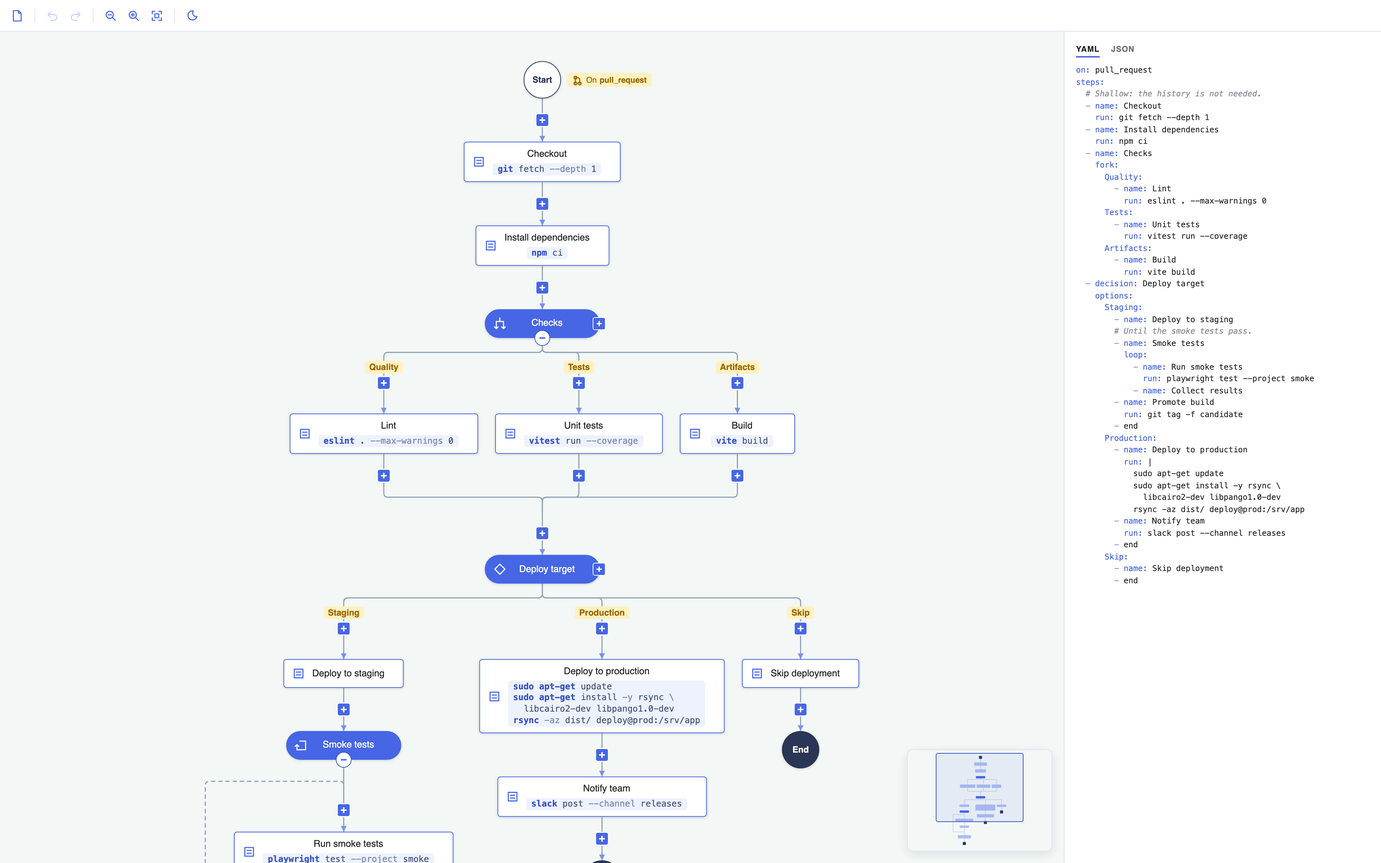
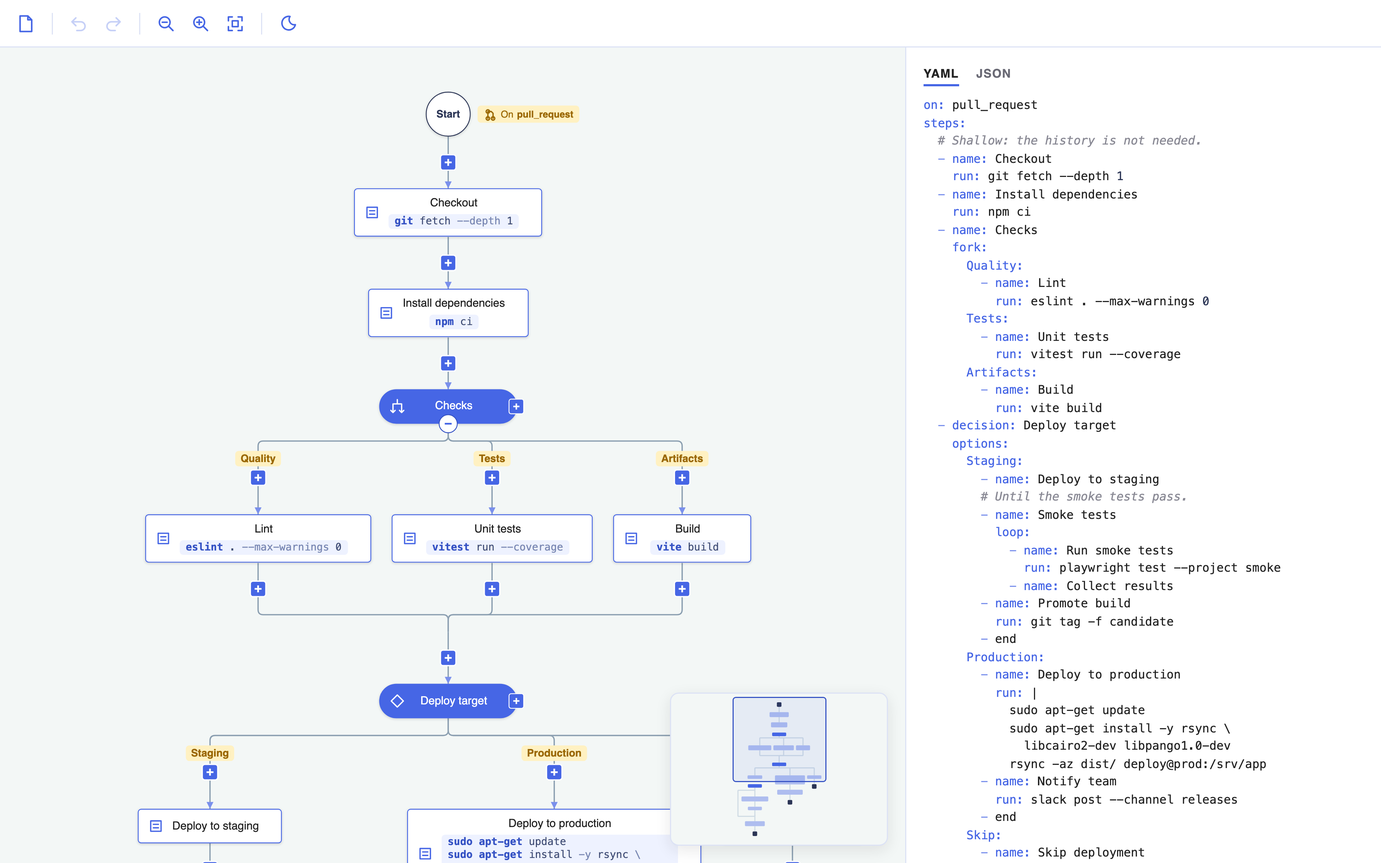
refactor(ci-pipeline-editor): the box of a loop carries the room for its return link (#72)

diff --git a/ci-pipeline-editor/react/src/layout/index.ts b/ci-pipeline-editor/react/src/layout/index.ts
@@ -1,7 +1,7 @@
 import type { dia, g } from '@joint/plus';
 
 import { layoutForkGroup } from './fork';
-import { LOOP_GAP, LOOP_START_ROOM, layoutLoopGroup } from './loop';
+import { LOOP_START_ROOM, layoutLoopGroup } from './loop';
 import { AddButtonModel, DecisionModel, GroupModel, GroupStartModel, LinkModel, isGate } from '../shapes';
 import type { GroupKind } from '../shapes';
 import { createTreeLayout } from './tree';
@@ -122,24 +122,6 @@ function nameOptions(graph: dia.Graph): void {
     }
 }
 
-/**
- * Gives every expanded loop with a sibling on its left extra room before it
- * (`prevSiblingGap`), for its return link, which runs outside of the box of
- * the group. Not a loop without one: the tree layout would shift a lone
- * child by half the gap, and a loop below a single parent is to line up
- * with it. Not a collapsed loop either: it shows no return link.
- */
-function makeRoomForReturnLinks(graph: dia.Graph): void {
-    for (const group of graph.getElements().filter(GroupModel.isGroup)) {
-        if (group.getKind() !== 'loop') continue;
-        // A collapsed loop shows no return link: no room for it.
-        const [parent] = graph.getNeighbors(group, { inbound: true });
-        const siblings = parent && !group.isCollapsed() ? getOptions(graph, parent) : [];
-        siblings.sort((a, b) => ((a.get('siblingRank') ?? 0) - (b.get('siblingRank') ?? 0)) || (a.getBBox().x - b.getBBox().x));
-        group.set({ prevSiblingGap: siblings.indexOf(group) > 0 ? LOOP_GAP : 0 });
-    }
-}
-
 /** Lays out the content of an expanded group; each kind of group has a layout of its own. */
 function layoutGroup(graph: dia.Graph, group: GroupModel): void {
     switch (group.getKind()) {
@@ -189,30 +171,6 @@ export function getVisibleBBox(graph: dia.Graph): g.Rect | null {
 }
 
 /**
- * Anchors the outer links of every visible group on the axis of its gates,
- * on the link models: a link into the group meets it at the top of its
- * `start` node, a link out of it leaves it at the bottom of its `end` node -
- * so the tree appears to connect to the gates, although the links connect
- * to the group, which may be wider on one side of the axis. Set after the
- * layout, which decides where the gates are; a collapsed group is the size
- * of its `start`, so the offset is nought. The anchors read the model: a
- * group is never rendered, on the paper or on the map.
- */
-function anchorGroupLinks(graph: dia.Graph, groups: GroupModel[]): void {
-    for (const group of groups) {
-        const center = group.getBBox().center();
-        const startDx = group.getStart().getBBox().center().x - center.x;
-        const endDx = (group.isCollapsed() ? group.getStart() : group.getEnd()).getBBox().center().x - center.x;
-        for (const link of graph.getConnectedLinks(group, { inbound: true })) {
-            link.prop('target/anchor', { name: 'top', args: { dx: startDx, useModelGeometry: true }});
-        }
-        for (const link of graph.getConnectedLinks(group, { outbound: true })) {
-            link.prop('source/anchor', { name: 'bottom', args: { dx: endDx, useModelGeometry: true }});
-        }
-    }
-}
-
-/**
  * Lays out the whole diagram bottom-up: the deepest groups first, because a
  * group is a single node of the tree that contains it and its size has to be
  * known before that tree is laid out. Makes room for the names of the
@@ -222,7 +180,6 @@ function anchorGroupLinks(graph: dia.Graph, groups: GroupModel[]): void {
 export function runLayout(graph: dia.Graph, root: dia.Element): g.Rect | null {
 
     makeRoomForOptions(graph);
-    makeRoomForReturnLinks(graph);
 
     const groups = graph.getElements()
         .filter(GroupModel.isGroup)
@@ -241,7 +198,6 @@ export function runLayout(graph: dia.Graph, root: dia.Element): g.Rect | null {
     }
 
     createTreeLayout(graph).layoutTree(root);
-    anchorGroupLinks(graph, groups);
     nameOptions(graph);
     for (const group of groups) {
         if (group.isCollapsed()) parkHiddenContent(group);

diff --git a/ci-pipeline-editor/ts/src/layout/index.ts b/ci-pipeline-editor/ts/src/layout/index.ts
@@ -1,7 +1,7 @@
 import type { dia, g } from '@joint/plus';
 
 import { layoutForkGroup } from './fork';
-import { LOOP_GAP, LOOP_START_ROOM, layoutLoopGroup } from './loop';
+import { LOOP_START_ROOM, layoutLoopGroup } from './loop';
 import { AddButtonModel, DecisionModel, GroupModel, GroupStartModel, LinkModel, isGate } from '../shapes';
 import type { GroupKind } from '../shapes';
 import { createTreeLayout } from './tree';
@@ -122,24 +122,6 @@ function nameOptions(graph: dia.Graph): void {
     }
 }
 
-/**
- * Gives every expanded loop with a sibling on its left extra room before it
- * (`prevSiblingGap`), for its return link, which runs outside of the box of
- * the group. Not a loop without one: the tree layout would shift a lone
- * child by half the gap, and a loop below a single parent is to line up
- * with it. Not a collapsed loop either: it shows no return link.
- */
-function makeRoomForReturnLinks(graph: dia.Graph): void {
-    for (const group of graph.getElements().filter(GroupModel.isGroup)) {
-        if (group.getKind() !== 'loop') continue;
-        // A collapsed loop shows no return link: no room for it.
-        const [parent] = graph.getNeighbors(group, { inbound: true });
-        const siblings = parent && !group.isCollapsed() ? getOptions(graph, parent) : [];
-        siblings.sort((a, b) => ((a.get('siblingRank') ?? 0) - (b.get('siblingRank') ?? 0)) || (a.getBBox().x - b.getBBox().x));
-        group.set({ prevSiblingGap: siblings.indexOf(group) > 0 ? LOOP_GAP : 0 });
-    }
-}
-
 /** Lays out the content of an expanded group; each kind of group has a layout of its own. */
 function layoutGroup(graph: dia.Graph, group: GroupModel): void {
     switch (group.getKind()) {
@@ -189,30 +171,6 @@ export function getVisibleBBox(graph: dia.Graph): g.Rect | null {
 }
 
 /**
- * Anchors the outer links of every visible group on the axis of its gates,
- * on the link models: a link into the group meets it at the top of its
- * `start` node, a link out of it leaves it at the bottom of its `end` node -
- * so the tree appears to connect to the gates, although the links connect
- * to the group, which may be wider on one side of the axis. Set after the
- * layout, which decides where the gates are; a collapsed group is the size
- * of its `start`, so the offset is nought. The anchors read the model: a
- * group is never rendered, on the paper or on the map.
- */
-function anchorGroupLinks(graph: dia.Graph, groups: GroupModel[]): void {
-    for (const group of groups) {
-        const center = group.getBBox().center();
-        const startDx = group.getStart().getBBox().center().x - center.x;
-        const endDx = (group.isCollapsed() ? group.getStart() : group.getEnd()).getBBox().center().x - center.x;
-        for (const link of graph.getConnectedLinks(group, { inbound: true })) {
-            link.prop('target/anchor', { name: 'top', args: { dx: startDx, useModelGeometry: true }});
-        }
-        for (const link of graph.getConnectedLinks(group, { outbound: true })) {
-            link.prop('source/anchor', { name: 'bottom', args: { dx: endDx, useModelGeometry: true }});
-        }
-    }
-}
-
-/**
  * Lays out the whole diagram bottom-up: the deepest groups first, because a
  * group is a single node of the tree that contains it and its size has to be
  * known before that tree is laid out. Makes room for the names of the
@@ -222,7 +180,6 @@ function anchorGroupLinks(graph: dia.Graph, groups: GroupModel[]): void {
 export function runLayout(graph: dia.Graph, root: dia.Element): g.Rect | null {
 
     makeRoomForOptions(graph);
-    makeRoomForReturnLinks(graph);
 
     const groups = graph.getElements()
         .filter(GroupModel.isGroup)
@@ -241,7 +198,6 @@ export function runLayout(graph: dia.Graph, root: dia.Element): g.Rect | null {
     }
 
     createTreeLayout(graph).layoutTree(root);
-    anchorGroupLinks(graph, groups);
     nameOptions(graph);
     for (const group of groups) {
         if (group.isCollapsed()) parkHiddenContent(group);

diff --git a/ci-pipeline-editor/react/src/layout/loop.ts b/ci-pipeline-editor/react/src/layout/loop.ts
@@ -27,10 +27,8 @@ import { createTreeLayout, fitGroupToContent, forkChildrenFrom, getAxisX, isSame
 
 /**
  * Horizontal distance between the return link and the tree. The link runs
- * outside of the box of the group; a loop with a sibling on its left asks
- * the tree layout for that much more room before it (see
- * `makeRoomForReturnLinks()` in `layout/index.ts`), so that the sibling keeps
- * clear of the link.
+ * beside the content, inside the box of the group, which is that much wider
+ * on each side of its axis to hold it.
  */
 export const LOOP_GAP = 40;
 /**
@@ -85,8 +83,7 @@ function collectTree(graph: dia.Graph, roots: dia.Element[]): dia.Element[] {
  * 1. The tree grows down from `start` (with `end` excluded from the layout),
  *    centered on the axis of `start` as the tree layout puts it: a chain of
  *    nodes lines up with the gates. The return link runs a gap left of the
- *    tree, outside of the box of the group; the group's `prevSiblingGap`
- *    keeps a sibling on the left clear of it.
+ *    tree, inside the box of the group, which carries the room for it.
  * 2. `end` is placed below the tree, on the axis, as far as balances the
  *    return link around the tree - a short way below `start` when there is
  *    no tree.
@@ -114,7 +111,7 @@ export function layoutLoopGroup(graph: dia.Graph, group: GroupModel): void {
     // An emptied loop has no tree: `start` links straight down to `end`, and the column of `start` stands in.
     const treeBBox = graph.getCellsBBox(tree) ?? new g.Rect(startBBox.x, startBBox.corner().y + PARENT_GAP, startBBox.width, 0);
 
-    // The return link runs a gap left of everything, outside of the box of the group.
+    // The return link runs a gap left of everything, inside the box of the group.
     const returnX = Math.min(treeBBox.x, startBBox.x) - LOOP_GAP;
 
     // `end` below the tree, as far as balances the return link's run around
@@ -165,8 +162,9 @@ export function layoutLoopGroup(graph: dia.Graph, group: GroupModel): void {
     }
 
     // The box of the group: the tree and the gates, the drop of the return
-    // link below `end` included - not the link's run up the side, which the
-    // `prevSiblingGap` of the group makes room for.
+    // link below `end` included, and a gap on each side of the axis for the
+    // link's run up the side. On each side, so that the axis stays the center
+    // of the group and what hangs below it lines up with the gates.
     const content = treeBBox.union(startBBox).union(end.getBBox()).union(new g.Rect(endX, belowEnd, 0, 0));
-    fitGroupToContent(group, content);
+    fitGroupToContent(group, content, LOOP_GAP);
 }

diff --git a/ci-pipeline-editor/ts/src/layout/loop.ts b/ci-pipeline-editor/ts/src/layout/loop.ts
@@ -26,10 +26,8 @@ import { createTreeLayout, fitGroupToContent, forkChildrenFrom, getAxisX, isSame
 
 /**
  * Horizontal distance between the return link and the tree. The link runs
- * outside of the box of the group; a loop with a sibling on its left asks
- * the tree layout for that much more room before it (see
- * `makeRoomForReturnLinks()` in `layout/index.ts`), so that the sibling keeps
- * clear of the link.
+ * beside the content, inside the box of the group, which is that much wider
+ * on each side of its axis to hold it.
  */
 export const LOOP_GAP = 40;
 /**
@@ -84,8 +82,7 @@ function collectTree(graph: dia.Graph, roots: dia.Element[]): dia.Element[] {
  * 1. The tree grows down from `start` (with `end` excluded from the layout),
  *    centered on the axis of `start` as the tree layout puts it: a chain of
  *    nodes lines up with the gates. The return link runs a gap left of the
- *    tree, outside of the box of the group; the group's `prevSiblingGap`
- *    keeps a sibling on the left clear of it.
+ *    tree, inside the box of the group, which carries the room for it.
  * 2. `end` is placed below the tree, on the axis, as far as balances the
  *    return link around the tree - a short way below `start` when there is
  *    no tree.
@@ -113,7 +110,7 @@ export function layoutLoopGroup(graph: dia.Graph, group: GroupModel): void {
     // An emptied loop has no tree: `start` links straight down to `end`, and the column of `start` stands in.
     const treeBBox = graph.getCellsBBox(tree) ?? new g.Rect(startBBox.x, startBBox.corner().y + PARENT_GAP, startBBox.width, 0);
 
-    // The return link runs a gap left of everything, outside of the box of the group.
+    // The return link runs a gap left of everything, inside the box of the group.
     const returnX = Math.min(treeBBox.x, startBBox.x) - LOOP_GAP;
 
     // `end` below the tree, as far as balances the return link's run around
@@ -164,8 +161,9 @@ export function layoutLoopGroup(graph: dia.Graph, group: GroupModel): void {
     }
 
     // The box of the group: the tree and the gates, the drop of the return
-    // link below `end` included - not the link's run up the side, which the
-    // `prevSiblingGap` of the group makes room for.
+    // link below `end` included, and a gap on each side of the axis for the
+    // link's run up the side. On each side, so that the axis stays the center
+    // of the group and what hangs below it lines up with the gates.
     const content = treeBBox.union(startBBox).union(end.getBBox()).union(new g.Rect(endX, belowEnd, 0, 0));
-    fitGroupToContent(group, content);
+    fitGroupToContent(group, content, LOOP_GAP);
 }

diff --git a/ci-pipeline-editor/react/src/layout/tree.ts b/ci-pipeline-editor/react/src/layout/tree.ts
@@ -77,11 +77,13 @@ export function createTreeLayout(graph: dia.Graph, options: Partial<layout.TreeL
  * (see `anchorGroupLinks()` in `index.ts`), so the group does not have to be
  * symmetric around it.
  */
-export function fitGroupToContent(group: GroupModel, content: g.Rect): void {
+export function fitGroupToContent(group: GroupModel, content: g.Rect, outside: number = 0): void {
+    const axisX = group.getAxisX();
+    const halfWidth = Math.max(axisX - content.x, content.corner().x - axisX) + outside + GROUP_PADDING;
     const top = group.getStart().getBBox().y;
     const bottom = group.getEnd().getBBox().corner().y;
-    group.position(content.x - GROUP_PADDING, top);
-    group.resize(content.width + 2 * GROUP_PADDING, bottom - top);
+    group.position(axisX - halfWidth, top);
+    group.resize(2 * halfWidth, bottom - top);
 }
 
 /**

diff --git a/ci-pipeline-editor/ts/src/layout/tree.ts b/ci-pipeline-editor/ts/src/layout/tree.ts
@@ -76,11 +76,13 @@ export function createTreeLayout(graph: dia.Graph, options: Partial<layout.TreeL
  * (see `anchorGroupLinks()` in `index.ts`), so the group does not have to be
  * symmetric around it.
  */
-export function fitGroupToContent(group: GroupModel, content: g.Rect): void {
+export function fitGroupToContent(group: GroupModel, content: g.Rect, outside: number = 0): void {
+    const axisX = group.getAxisX();
+    const halfWidth = Math.max(axisX - content.x, content.corner().x - axisX) + outside + GROUP_PADDING;
     const top = group.getStart().getBBox().y;
     const bottom = group.getEnd().getBBox().corner().y;
-    group.position(content.x - GROUP_PADDING, top);
-    group.resize(content.width + 2 * GROUP_PADDING, bottom - top);
+    group.position(axisX - halfWidth, top);
+    group.resize(2 * halfWidth, bottom - top);
 }
 
 /**

diff --git a/ci-pipeline-editor/ts/README.md b/ci-pipeline-editor/ts/README.md
@@ -14,7 +14,7 @@ An editor of a CI/CD pipeline, built with JointJS+: a tree laid out by `layout.T
 - **Light and dark** -- the last button of the toolbar switches the theme; the choice is kept in `localStorage`, the system's preference is the default. Every color is a custom property of `styles.css`, defined twice, keyed off `data-theme` on the document (`theme.ts`): the stylesheet reads them for the panels and the buttons, and the shapes, the map and the menus read them through `COLORS` (`shapes/constants.ts`) as `var()` values - a value like any other to an SVG attribute and to the background of the paper, so the picture follows a switch without a rebuild.
 - **Selection and inspector** -- a click selects an element (`ui.Selection`, one at a time, no dragging: the layout owns the positions) - a step, a decision, the start of a group, the start or an end of the diagram - outlined by a frame (`ui.HighlighterSelectionFrameList` with `FrameHighlighter` from `frame.ts`, a `highlighters.stroke` that draws the frame from the model at an even distance instead of scaling the outline, which turns the round ends of a pill elliptical), drawn in the back layer of the paper, behind the links and the buttons, in the shape of the element - the corners of a step, the round ends of the other pills, the circle of a terminal; a click on the blank area or `Escape` clears the selection. The selected element opens in the inspector on the right: a `ui.Inspector` bound to the data model, not to the cell - its inputs edit the fields of the node the element stands for, under the path `<id>/<field>`: the `label` of a step, a decision or a group, and the names of the options of a decision or the branches of a fork - one input per option, bound to the `name` of the edge in the parent's list (`<id>/to/<index>/name`; the start of a fork stands for the fork, `branches`). An option added or removed adds or removes its input. The start and the ends of the diagram have nothing to edit; a loop, its label and its comment. A change is one edit of the data like any other: recorded by the history, undoable, followed by a rebuild of the graph. An element that an edit removes or hides (a collapsed loop) leaves the selection.
 - **Pills sized to their labels** -- a step or a decision is as wide as its label needs (`setPillLabel()` in `shapes/pill.ts`: the text is measured with the 2D context of an off-screen canvas, `measureText()`, in the font of the labels) and as tall as its lines - a newline in the label breaks a line - with the size of a node as the minimum. The label is edited in a text area of the inspector, so it can span lines; the layout takes the sizes as they are. The command a step runs (`run`) goes below the label as code - monospaced, smaller and tinted through an annotation of the `text` attribute - and is measured in that font.
-- **Groups in a tree** -- a group is one node of the tree: the outer links connect to the group element, not to the start and end nodes inside it. The group hugs its content, from the top of its start node to the bottom of its end node, but it is never rendered: the paper's `cellVisibility` hides it, so it is a node of the layout only. A custom anchor puts the outer links on the axis of the two gates, and the tree layout's vertices are computed on that axis too -- the tree connects to the start and end nodes, as far as the eye can tell, even when the content is wider on one side of them.
+- **Groups in a tree** -- a group is one node of the tree: the outer links connect to the group element, not to the start and end nodes inside it. The group spans its content, from the top of its start node to the bottom of its end node, and is symmetric around the axis of its two gates -- so that the axis is the center of the group and what hangs below it lines up with the gates -- but it is never rendered: the paper's `cellVisibility` hides it, so it is a node of the layout only. The axis is the middle of the box, so the outer links meet the group where the gates are with no anchor of their own, and the tree layout's vertices are computed on that axis too -- the tree connects to the start and end nodes, as far as the eye can tell, even when the content is wider on one side of them.
 - **Bottom-up layout** -- every group is laid out on its own with `treeLayout.layoutTree(start)`, then sized from its start to its end node, the deepest groups first. The outer tree is laid out last, once the size of every group is known.
 - **Fork groups: converging branches** -- the tree layout only knows trees, so the end node is excluded from the layout of a group with the `filter` option. It is then placed below the branches and joined to them by a horizontal bar that mirrors the vertices the tree layout draws below a parent.
 - **Loop groups: a tree and a way back** -- the tree grows down from the start node and its leaves converge into the end node; the end node links straight back to the start node, up the left side of the group. Nothing can be added to that return link: a node there would run once per iteration exactly like a node of the tree, so the link is the one link without an insert button. It is dashed, as it runs against the flow of the tree.
@@ -56,7 +56,6 @@ An editor of a CI/CD pipeline, built with JointJS+: a tree laid out by `layout.T
 | Click the `+` below a group nothing follows | The same menu, acting on the group |
 | Hover the start node of a fork or a loop, `⋯` → *Remove the fork* / *Remove the loop* | Delete it with its content; what followed it moves up |
 | `⋯` → *Move to…* or *Move the branch to…*, then any pulsing `+` | Move the element alone, or with everything below it, there; a hint over the paper says what moves; `Escape` cancels |
-
 | Click the round `-` / `+` on the bottom edge of the start node of a group | Collapse or expand the group |
 | Hover the start node of a group | The `⋯` whose menu deletes the group |
 
@@ -74,7 +73,7 @@ An editor of a CI/CD pipeline, built with JointJS+: a tree laid out by `layout.T
 | `src/shapes/` | One module per shape (`step.ts`, `decision.ts`, `group.ts`, `terminals.ts`, `add-button.ts`, `link.ts`; `pill.ts` what the pills share, `constants.ts` the layout metrics, the colors and the icons). One class per thing: `StepModel` (a pill with a label), `DecisionModel` (a filled pill with a diamond and the button that adds an option), `GroupStartModel` (a filled pill labelled with the kind of the group, its icon, the collapse button and, for a fork, the button that adds a branch), `GroupEndModel` (a point without size or picture, the paths of a group converge into it), `StartModel` and `EndModel` (the circles of the diagram), `GroupModel` (never rendered; knows its kind, whether it is collapsed, and its gates), `AddButtonModel` and `LinkModel` (the name of an option as a label; dashed as the return link of a loop, with an arrow label instead of an arrowhead; no arrowhead into the end of a group or an add button). The pills put their markup together from shared parts |
 | `src/layout/fork.ts` | The layout of a fork group: one `TreeLayout` pass from the start, the end node joined below the branches |
 | `src/layout/loop.ts` | The layout of a loop group: one `TreeLayout` pass down from the start, the leaves into the end from the right, the return link up the left side |
-| `src/layout/tree.ts` | Shared by both kinds: the `TreeLayout` factory (with vertices that run on the axis of the gates of a group), the bars that join a gate to the roots below it and the leaves of a tree to the gate below them, and the sizing of a group around its content |
+| `src/layout/tree.ts` | Shared by both kinds: the `TreeLayout` factory (with vertices that run on the axis of the gates of a group), the bars that join a gate to the roots below it and the leaves of a tree to the gate below them, and the sizing of a group around the axis of its gates |
 | `src/layout/index.ts` | The bottom-up layout: the naming of the options of the decisions and the forks, one pass per expanded group, dispatched by its kind, then one for the outer tree. Also the visibility predicate shared with the paper |
 | `src/actions.ts` | The edits the tools trigger, each a change of the data: add below an element, insert into a link, delete, collapse or expand -- the element or the link is mapped to the node and the list of edges it stands for. Also what the tools ask first, answered from the graph: whether an element can be deleted, what its deletion removes, whether a link can be split |
 | `src/navigator.ts` | The map: a `ui.Navigator` with a simplified view of the elements, hiding what the paper hides |
@@ -89,8 +88,8 @@ An editor of a CI/CD pipeline, built with JointJS+: a tree laid out by `layout.T
 1. The build embeds in a group its start node, its content, its end node and the inner links. The outer links (`parent → group`, `group → child`) are attached to the group element. A fork with two branches `a` and `b` embeds them and the links `start → a`, `start → b`, `a → end`, `b → end`. A group without branches is empty: a fork embeds `start → end`, a loop `start → end` and the return link `end → start`. Branches are added with the button on the start of a fork; a loop grows by insertions into its first link.
 2. `runLayout()` sorts the expanded groups by depth, deepest first, and lays each of them out by its kind. A fresh `TreeLayout` is used for every tree: its `updatePosition` moves elements with `{ deep: true }`, so a nested group carries its content along, and its `filter` drops the end node the tree would otherwise run into, so that the content stays a tree.
 3. *Fork group:* `layoutTree(start)` lays out the branches. The end node is placed below the bounding box of that tree (`treeLayout.getLayoutArea(start)`) on the vertical axis of the start node -- a parent gap plus a third further down, so that the part of a join a leaf has of its own is a full parent gap long -- and the links into it get two vertices forming a horizontal bar, a third of the gap above the end node.
-4. *Loop group:* `layoutTree(start)` lays out the tree centered on the axis of the start node, as the tree layout puts it, so that a chain of nodes lines up with the gates; the end node is placed below the tree on that axis, as far as makes the return link run as far above the tree as below it. The return link runs a gap left of the tree, outside of the box of the group; a loop with a sibling on its left gets that gap as its `prevSiblingGap` in the tree layout (`makeRoomForReturnLinks()`), a lone one does not, as the gap would shift it off its parent. The tree hangs from the start node with the usual bar, and its leaves enter the end node from the side, on its level -- a leaf right above the end node connects straight. The return link runs down the link out of the end node and diverges from it a drop below, turns left, runs up the side of the group, turns right under the start node, merges into the link out of the start node a drop below the pill and ends a little further down it (a `bottom` anchor with a `dy`); it has no arrowhead, an arrow label in its middle, turned along the link, shows the way -- above the insert buttons of those links, which move down to make way; it lies below the other links (`z: 0`), so that a leaf entering the end node from the left runs over it.
-5. In both cases the group is positioned and sized by hand: from the top of the start node to the bottom of the end node, as wide as its content. The layout anchors the outer links of a group on the link models (`anchorGroupLinks()` in `layout/index.ts`): a link into a group at the top of its start node, a link out of a group at the bottom of its end node; the paper's default anchor and connection point read the models (`center` and `bbox` with `useModelGeometry`), so the outer links meet the group exactly where the start and end nodes are, rendered or not - and the chip of the trigger, which the view of the start draws outside of its box, does not pull the links. The `updateVertices` callback of every `TreeLayout` draws the usual horizontal bar between the *axes* of the parent and the child, not between the middles of their boxes, so a link into a group turns down on the axis of its gates.
+4. *Loop group:* `layoutTree(start)` lays out the tree centered on the axis of the start node, as the tree layout puts it, so that a chain of nodes lines up with the gates; the end node is placed below the tree on that axis, as far as makes the return link run as far above the tree as below it. The return link runs a gap left of the tree, inside the box of the group, which is that much wider on each side of its axis to hold it. The room is part of the width on purpose: a width is geometry, which every bounding box and every layout around the group accounts for by itself, while a sibling gap is an instruction to one layout and reaches no further -- and, applied to one side, it moves the group by half of what it reserves, so a lone loop would sit off the axis of its parent. The tree hangs from the start node with the usual bar, and its leaves enter the end node from the side, on its level -- a leaf right above the end node connects straight. The return link runs down the link out of the end node and diverges from it a drop below, turns left, runs up the side of the group, turns right under the start node, merges into the link out of the start node a drop below the pill and ends a little further down it (a `bottom` anchor with a `dy`); it has no arrowhead, an arrow label in its middle, turned along the link, shows the way -- above the insert buttons of those links, which move down to make way; it lies below the other links (`z: 0`), so that a leaf entering the end node from the left runs over it.
+5. In both cases the group is positioned and sized by hand: from the top of the start node to the bottom of the end node, and symmetric around the axis of the gates, wide enough for the content on either side of it -- and, for a loop, for the return link that runs beside the content. The room that link takes is part of the width on purpose: a width is geometry, which every bounding box and every layout around the group accounts for by itself, while a sibling gap is an instruction to one layout and reaches no further. The paper's default anchor and connection point read the models (`center` and `bbox` with `useModelGeometry`), and the axis of the gates is the middle of the box, so the outer links meet the group exactly where the start and end nodes are, rendered or not - and the chip of the trigger, which the view of the start draws outside of its box, does not pull the links. The `updateVertices` callback of every `TreeLayout` draws the usual horizontal bar between the *axes* of the parent and the child, not between the middles of their boxes, so a link into a group turns down on the axis of its gates.
 6. A collapsed group skips all of that: it is resized to a node and its start node is placed over it. The paper's `cellVisibility` hides every group, every cell that has a collapsed ancestor -- except the start node of the collapsed group itself -- and every link whose end is hidden. The links to a hidden group still render: the paper routes them from the models (`useModelGeometry`), which is also why the anchors of the links of a group are set from the models.
 7. Finally the outer tree is laid out from the root with `layoutTree(root)`. `layout()` is not used, because it would start a tree from every source of the graph -- including the start node of every group. The paper is then scaled to fit the visible content.
 8. None of the structure is edited on the graph. An edit changes the data -- an edge added to a list, a node inserted into an edge, a node taken out with its parent leading to its children in its place -- and the build derives the graph again: an add button below every node outside of a group that leads nowhere, a link to the end of the group from every such node inside one, the sibling ranks from the order of the edges. Since the cells keep their ids, the graph is updated in place and the layout starts from the previous positions.

diff --git a/ci-pipeline-editor/react/README.md b/ci-pipeline-editor/react/README.md
@@ -17,7 +17,7 @@ An editor of a CI/CD pipeline, built with `@joint/react-plus`: a tree laid out b
 - **Small screens** -- on a narrow screen the paper takes the whole width and the map goes; the panel is a sheet over the bottom of the paper, shown while an element is selected and gone with the selection (a tap on the blank area). The diagram as text is not offered there.
 - **Map** -- `<Minimap>` (`minimap.tsx`), a `<Navigator>` of `@joint/react-plus`, small, floating over the bottom right corner of the paper, with the default views of the library - a rounded rect per element, filled in the colors of the diagram without a stroke ( the white start is dark on the map, like the ends) - and the links, but not the add buttons, too small to read on the map. It hides the content of the collapsed groups like the paper does: the navigator inherits the routing options of the paper, not its `cellVisibility`, so that is passed through `options.paperOptions`; and it fits the content measured by the model (no dynamic zoom), like the scroller sizes the paper.
 - **Menus, tooltips, toolbar** -- the add menu and the menu of an element (`⋯` on hover, or a right click: the four items below) are a React component positioned under the button that opened it; hovering a "remove" item turns what it would take red, by a class on the JointJS views. The tooltips are [react-tooltip](https://react-tooltip.com/), one instance for every button; a button registers with it after it mounts (`tooltip.tsx`), as the buttons of the cells come and go with the cells. The toolbar is a row of buttons: undo and redo (disabled when there is nothing to undo or redo), the zoom through `usePaperScroller()`, a new diagram.
-- **Groups in a tree** -- a group is one node of the tree: the outer links connect to the group element, not to the start and end nodes inside it. The group hugs its content, from the top of its start node to the bottom of its end node, but it is never rendered: the paper's `cellVisibility` hides it, so it is a node of the layout only. A custom anchor puts the outer links on the axis of the two gates, and the tree layout's vertices are computed on that axis too -- the tree connects to the start and end nodes, as far as the eye can tell, even when the content is wider on one side of them.
+- **Groups in a tree** -- a group is one node of the tree: the outer links connect to the group element, not to the start and end nodes inside it. The group spans its content, from the top of its start node to the bottom of its end node, and is symmetric around the axis of its two gates -- so that the axis is the center of the group and what hangs below it lines up with the gates -- but it is never rendered: the paper's `cellVisibility` hides it, so it is a node of the layout only. The axis is the middle of the box, so the outer links meet the group where the gates are with no anchor of their own, and the tree layout's vertices are computed on that axis too -- the tree connects to the start and end nodes, as far as the eye can tell, even when the content is wider on one side of them.
 - **Bottom-up layout** -- every group is laid out on its own with `treeLayout.layoutTree(start)`, then sized from its start to its end node, the deepest groups first. The outer tree is laid out last, once the size of every group is known.
 - **Fork groups: converging branches** -- the tree layout only knows trees, so the end node is excluded from the layout of a group with the `filter` option. It is then placed below the branches and joined to them by a horizontal bar that mirrors the vertices the tree layout draws below a parent.
 - **Loop groups: a tree and a way back** -- the tree grows down from the start node and its leaves converge into the end node; the end node links straight back to the start node, up the left side of the group. Nothing can be added to that return link: a node there would run once per iteration exactly like a node of the tree, so the link is the one link without an insert button. It is dashed, as it runs against the flow of the tree.
@@ -52,7 +52,6 @@ An editor of a CI/CD pipeline, built with `@joint/react-plus`: a tree laid out b
 | Click the `+` below a group nothing follows | The same menu, acting on the group |
 | Hover the start node of a fork or a loop, `⋯` → *Remove the fork* / *Remove the loop* | Delete it with its content; what followed it moves up |
 | `⋯` → *Move to…* or *Move the branch to…*, then any pulsing `+` | Move the element alone, or with everything below it, there; a hint over the paper says what moves; `Escape` cancels |
-
 | Click the round `-` / `+` on the bottom edge of the start node of a group | Collapse or expand the group |
 | Hover the start node of a group | The `⋯` whose menu deletes the group |
 
@@ -85,8 +84,8 @@ An editor of a CI/CD pipeline, built with `@joint/react-plus`: a tree laid out b
 1. The build embeds in a group its start node, its content, its end node and the inner links. The outer links (`parent → group`, `group → child`) are attached to the group element. A fork with two branches `a` and `b` embeds them and the links `start → a`, `start → b`, `a → end`, `b → end`. A group without branches is empty: a fork embeds `start → end`, a loop `start → end` and the return link `end → start`. Branches are added with the button on the start of a fork; a loop grows by insertions into its first link.
 2. `runLayout()` sorts the expanded groups by depth, deepest first, and lays each of them out by its kind. A fresh `TreeLayout` is used for every tree: its `updatePosition` moves elements with `{ deep: true }`, so a nested group carries its content along, and its `filter` drops the end node the tree would otherwise run into, so that the content stays a tree.
 3. *Fork group:* `layoutTree(start)` lays out the branches. The end node is placed below the bounding box of that tree (`treeLayout.getLayoutArea(start)`) on the vertical axis of the start node -- a parent gap plus a third further down, so that the part of a join a leaf has of its own is a full parent gap long -- and the links into it get two vertices forming a horizontal bar, a third of the gap above the end node.
-4. *Loop group:* `layoutTree(start)` lays out the tree centered on the axis of the start node, as the tree layout puts it, so that a chain of nodes lines up with the gates; the end node is placed below the tree on that axis, as far as makes the return link run as far above the tree as below it. The return link runs a gap left of the tree, outside of the box of the group; a loop with a sibling on its left gets that gap as its `prevSiblingGap` in the tree layout (`makeRoomForReturnLinks()`), a lone one does not, as the gap would shift it off its parent. The tree hangs from the start node with the usual bar, and its leaves enter the end node from the side, on its level -- a leaf right above the end node connects straight. The return link runs down the link out of the end node and diverges from it a drop below, turns left, runs up the side of the group, turns right under the start node, merges into the link out of the start node a drop below the pill and ends a little further down it (a `bottom` anchor with a `dy`); it has no arrowhead, an arrow label in its middle, turned along the link, shows the way -- above the insert buttons of those links, which move down to make way; it lies below the other links (`z: 0`), so that a leaf entering the end node from the left runs over it.
-5. In both cases the group is positioned and sized by hand: from the top of the start node to the bottom of the end node, as wide as its content. The layout anchors the outer links of a group on the link models (`anchorGroupLinks()` in `layout/index.ts`): a link into a group at the top of its start node, a link out of a group at the bottom of its end node; the anchor and the connection point of the `@joint/react` paper preset read the models, so the outer links meet the group exactly where the start and end nodes are, rendered or not. The `updateVertices` callback of every `TreeLayout` draws the usual horizontal bar between the *axes* of the parent and the child, not between the middles of their boxes, so a link into a group turns down on the axis of its gates.
+4. *Loop group:* `layoutTree(start)` lays out the tree centered on the axis of the start node, as the tree layout puts it, so that a chain of nodes lines up with the gates; the end node is placed below the tree on that axis, as far as makes the return link run as far above the tree as below it. The return link runs a gap left of the tree, inside the box of the group, which is that much wider on each side of its axis to hold it. The room is part of the width on purpose: a width is geometry, which every bounding box and every layout around the group accounts for by itself, while a sibling gap is an instruction to one layout and reaches no further -- and, applied to one side, it moves the group by half of what it reserves, so a lone loop would sit off the axis of its parent. The tree hangs from the start node with the usual bar, and its leaves enter the end node from the side, on its level -- a leaf right above the end node connects straight. The return link runs down the link out of the end node and diverges from it a drop below, turns left, runs up the side of the group, turns right under the start node, merges into the link out of the start node a drop below the pill and ends a little further down it (a `bottom` anchor with a `dy`); it has no arrowhead, an arrow label in its middle, turned along the link, shows the way -- above the insert buttons of those links, which move down to make way; it lies below the other links (`z: 0`), so that a leaf entering the end node from the left runs over it.
+5. In both cases the group is positioned and sized by hand: from the top of the start node to the bottom of the end node, and symmetric around the axis of the gates, wide enough for the content on either side of it -- and, for a loop, for the return link that runs beside the content. The room that link takes is part of the width on purpose: a width is geometry, which every bounding box and every layout around the group accounts for by itself, while a sibling gap is an instruction to one layout and reaches no further. The anchor and the connection point of the `@joint/react` paper preset read the models, and the axis of the gates is the middle of the box, so the outer links meet the group exactly where the start and end nodes are, rendered or not. The `updateVertices` callback of every `TreeLayout` draws the usual horizontal bar between the *axes* of the parent and the child, not between the middles of their boxes, so a link into a group turns down on the axis of its gates.
 6. A collapsed group skips all of that: it is resized to a node and its start node is placed over it. The paper's `cellVisibility` hides every group, every cell that has a collapsed ancestor -- except the start node of the collapsed group itself -- and every link whose end is hidden. The links to a hidden group still render: the paper routes them from the models (`useModelGeometry`), which is also why the anchors of the links of a group are set from the models.
 7. Finally the outer tree is laid out from the root with `layoutTree(root)`. `layout()` is not used, because it would start a tree from every source of the graph -- including the start node of every group. The paper is then scaled to fit the visible content.
 8. None of the structure is edited on the graph. An edit changes the data -- an edge added to a list, a node inserted into an edge, a node taken out with its parent leading to its children in its place -- and the build derives the graph again: an add button below every node outside of a group that leads nowhere, a link to the end of the group from every such node inside one, the sibling ranks from the order of the edges. Since the cells keep their ids, the graph is updated in place and the layout starts from the previous positions.
